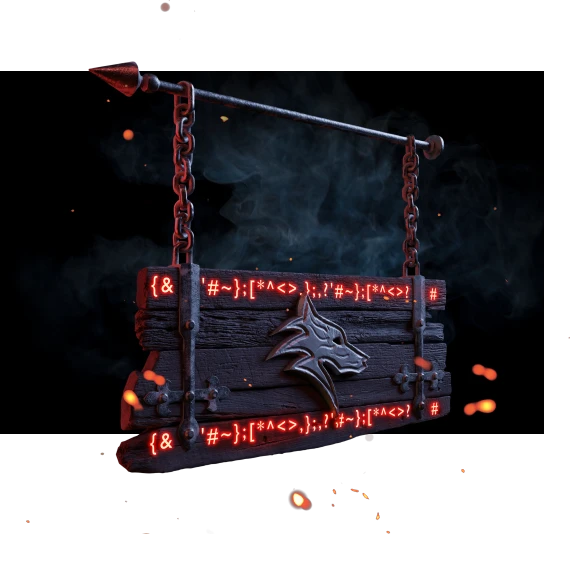
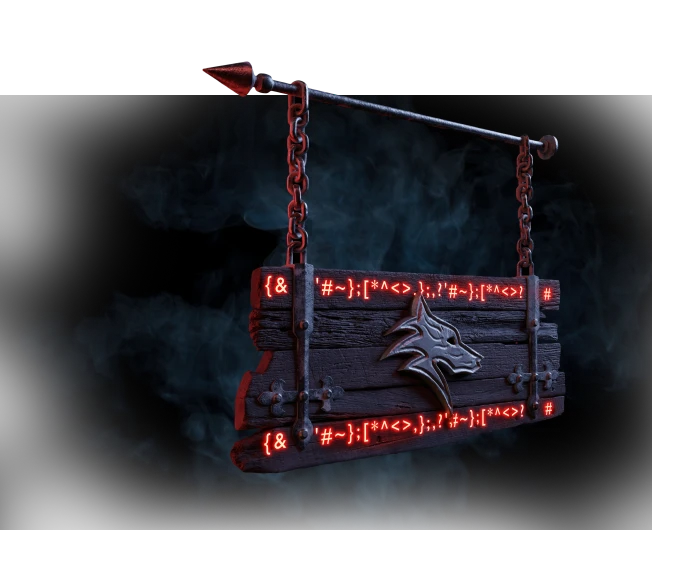
game developer smoke bg

diff --git a/website/src/components/home-page/community/community.scss b/website/src/components/home-page/community/community.scss
@@ -1,5 +1,10 @@
 .community-section {
-  padding: 0 16px;
+  padding: 0 16px 100px;
+  overflow: hidden;
+
+  @media (max-width: 600px) {
+   padding-bottom: 20px;
+  }
 
   > div {
     max-width: 1112px;
@@ -87,34 +92,59 @@
   }
 
   .game-developer {
-    display: flex;
-    align-items: center;
+    position: relative;
 
     @media (max-width: 800px) {
+      display: flex;
       flex-direction: column-reverse;
       text-align: center;
     }
 
     .assets {
-      position: relative;
+      position: absolute;
+      right: 0;
+      top: 0;
+      width: 100%;
+      height: 100%;
+
+      @media (max-width: 800px) {
+        position: unset;
+      }
 
       .mobile {
         display: none;
 
         @media (max-width: 800px) {
           display: block;
+          position: relative;
+          right: -50px;
+        }
+      }
+
+      .smoke {
+        position: absolute;
+        top: -90px;
+        right: -160px;
+        width: 718px;
+        height: 480px;
+
+        @media (max-width: 800px) {
+          display: none;
         }
       }
 
       .compass-video {
         position: absolute;
-        left: 30px;
-        top: -58px;
+        right: 40px;
+        top: 10px;
         z-index: 3;
 
         @media (max-width: 1024px) {
+          width: 370px;
+        }
+
+        @media (max-width: 960px) {
           width: 270px;
-          left: 30px;
         }
 
         @media (max-width: 800px) {
@@ -122,11 +152,6 @@
         }
       }
       
-      .smoke {
-        @media (max-width: 800px) {
-          display: none;
-        }
-      }
       
     }
   }
